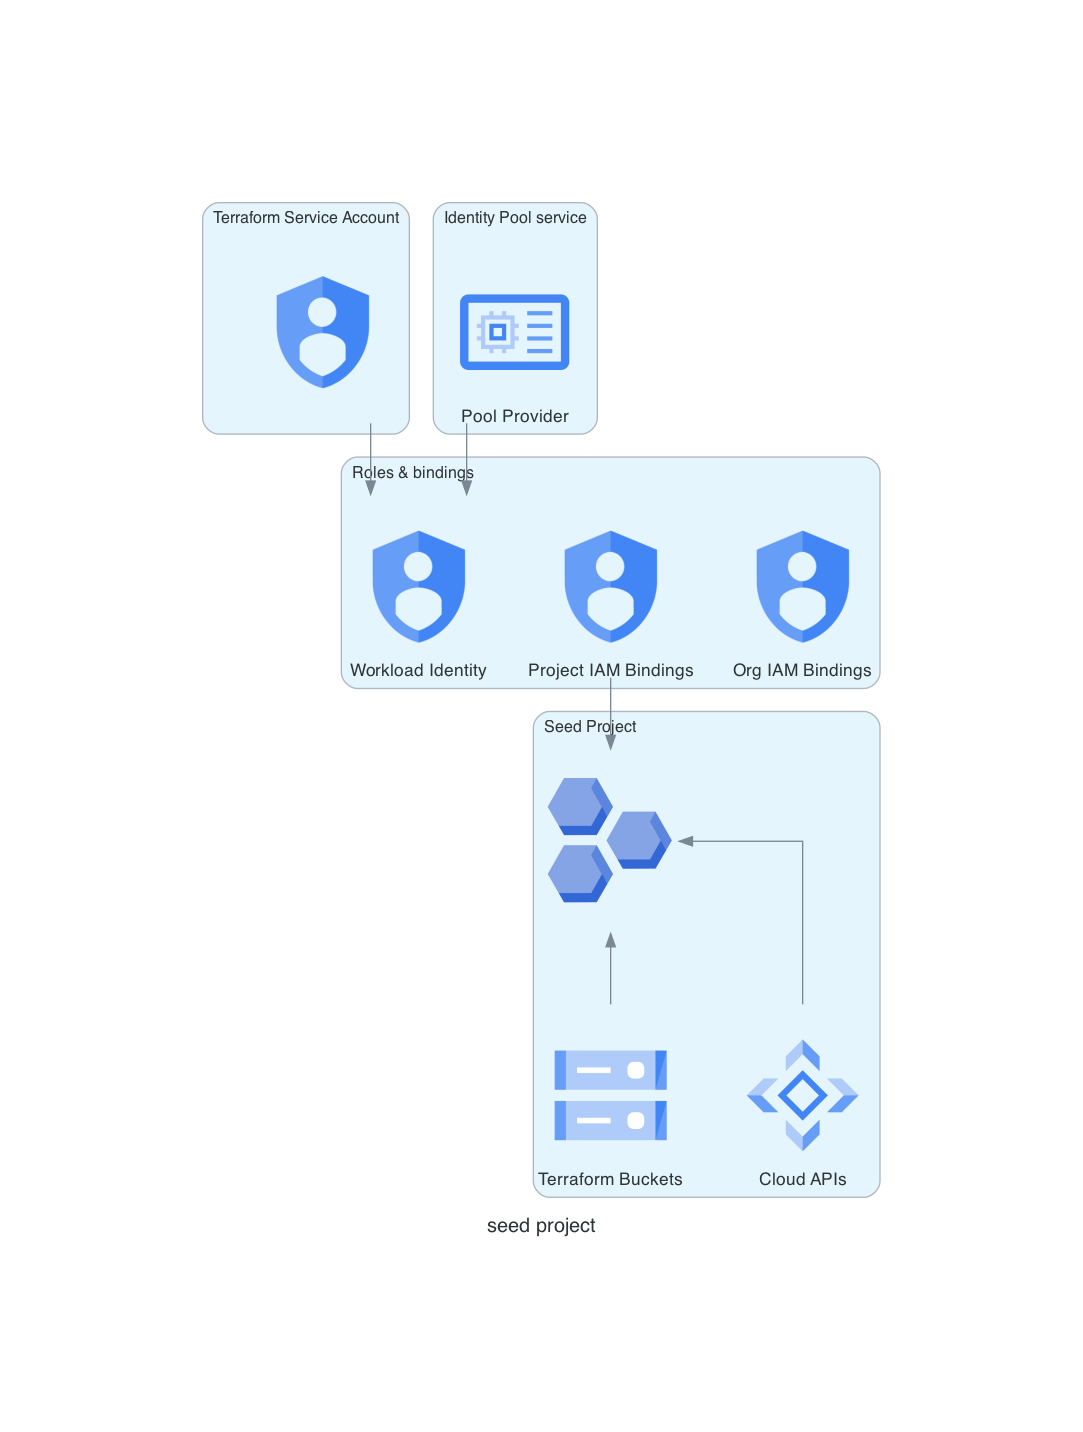
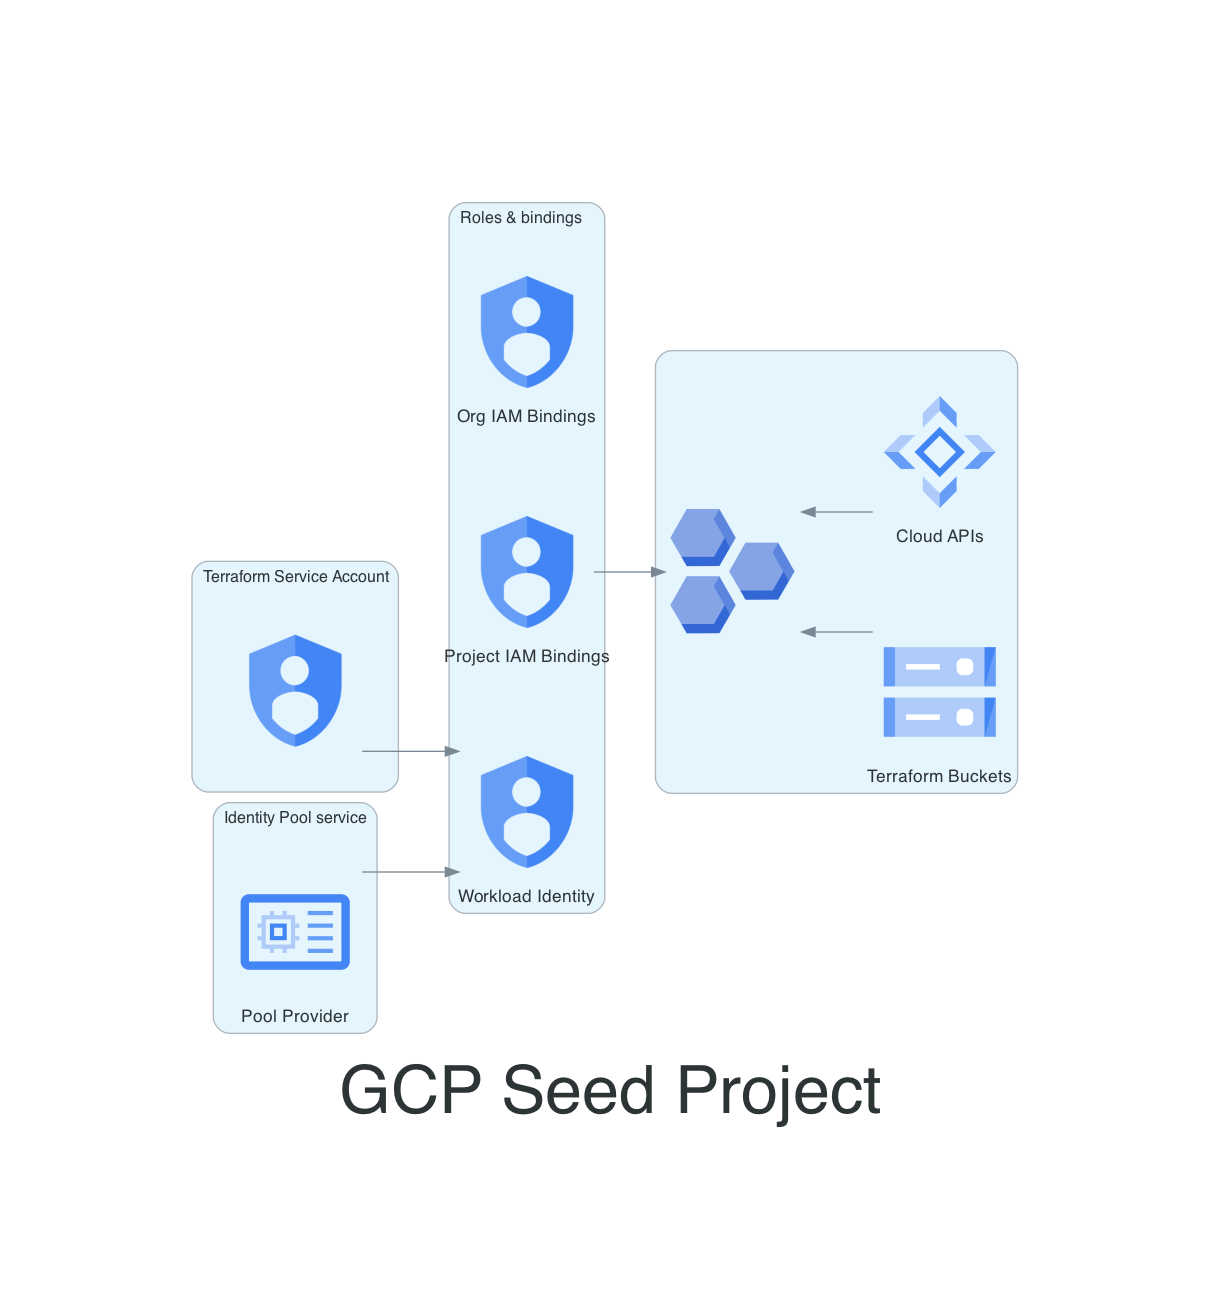
Doc improvements

Changed region(s): [[0.1524, 0.1247, 0.8532, 0.873]]

diff --git a/documentation/docs/scripts/slz-groups-iam.diagrams.py b/documentation/docs/scripts/slz-groups-iam.diagrams.py
@@ -1,9 +1,5 @@
-
-
-
-
 import os
-from diagrams import Cluster, Diagram
+from diagrams import Cluster, Diagram, Edge
 from diagrams.gcp.security import Iam
 from diagrams.custom import Custom
 
@@ -14,39 +10,39 @@ org_icon_path = "../img/icons/administration.png"
 os.chdir('../img')
 graph_attr = {
     "fontsize": "60",
-    "bgcolor": "transparent"
+    # "bgcolor": "transparent"
 }
 
 node_attr = {}
 edge_attr = {}
 
-with Diagram("Secure Landing Zone Groups Iam", filename="slz-groups-iam", show=False, direction="TB", 
+with Diagram("Secure Landing Zone Groups Roles", filename="slz-groups-iam", show=False, direction="LR", 
              outformat="png", graph_attr=graph_attr):
     with Cluster("Google Cloud Platform"):
         org = Custom("GCP Organization", org_icon_path)
     with Cluster("Security Admins"):
         ga = Custom("", groups_icon_path)
         sasa = Iam("Security Admin")
-        org >> ga
+        org >> Edge(color="Black", style="bold") >> ga
         ga >> [sasa]
     with Cluster("GCP Admins"):
         ga = Custom("", groups_icon_path)
         gaoa = Iam("Org Admin")
         gasa = Iam("Security Admin")
         gaba = Iam("Billing Admin")
-        org >> ga
+        org >> Edge(color="Black", style="bold") >> ga
         ga >> [gaoa,gasa,gaba]
     with Cluster("Network Admins"):
         ga = Custom("", groups_icon_path)
         nana = Iam("Network Admin")
         nava = Iam("VPC Access Admin")
-        org >> ga
+        org >> Edge(color="Black", style="bold") >> ga
         ga >> [nana,nava]
     with Cluster("Audit Admins"):
         ga = Custom("", groups_icon_path)
         aana = Iam("Security Reviewer")
         aava = Iam("Logging")
-        org >> ga
+        org >> Edge(color="Black", style="bold") >> ga
         ga >> [aana,aava]
     with Cluster("Project Admins"):
         ga = Custom("", groups_icon_path)
@@ -55,5 +51,5 @@ with Diagram("Secure Landing Zone Groups Iam", filename="slz-groups-iam", show=F
         past = Iam("Service Account Admin Token Creator")
         para = Iam("Artifact Registry Admin")
         parr = Iam("Artifact Registry Repo Admin")
-        org >> ga
+        org >> Edge(color="Black", style="bold") >> ga
         ga >> [pana,pasa,past,para,parr]

diff --git a/documentation/docs/scripts/slz-folders-core.diagrams.py b/documentation/docs/scripts/slz-folders-core.diagrams.py
@@ -8,8 +8,8 @@ org_icon_path = "../img/icons/administration.png"
 
 os.chdir('../img')
 graph_attr = {
-    "fontsize": "60",
-    "bgcolor": "transparent"
+    "fontsize": "20",
+    # "bgcolor": "transparent"
 }
 
 graph_attr2 = {
@@ -42,11 +42,15 @@ with Diagram("Secure Landing Zone Folder Hierarchy", filename="slz-folders-core"
         business_units = Custom("Bussiness Units", folder_icon_path)
         org >> Edge(color="Black", style="bold") >>  business_units
         
-    with Cluster("Bu. A", graph_attr=graph_attr2):
-        business_units_project = Custom("Bussiness Unit A", folder_icon_path)
-        dev = Custom("Project A", folder_icon_path)
-        prod = Custom("Project B", folder_icon_path)
+    with Cluster("Bussiness Unit A", graph_attr=graph_attr2):
+        business_units_project = Custom("Project A", folder_icon_path)
+        dev = Custom("dev", folder_icon_path)
+        prod = Custom("prod", folder_icon_path)
         business_units >> business_units_project
-        business_units_project >> dev
-        business_units_project >> prod 
+        business_units_project >> [dev,prod]
         
+        # business_units_project2 = Custom("Project B", folder_icon_path)
+        # dev2 = Custom("dev", folder_icon_path)
+        # prod2 = Custom("prod", folder_icon_path)
+        # business_units >> business_units_project2
+        # business_units_project2 >> [dev2,prod2]

diff --git a/documentation/docs/scripts/seed.diagrams.py b/documentation/docs/scripts/seed.diagrams.py
@@ -12,13 +12,13 @@ buckets_icon_path = "../img/icons/cloud_storage.png"
 os.chdir('../img')
 graph_attr = {
     "fontsize": "50",
-    "bgcolor": "transparent",
+    # "bgcolor": "transparent",
 }
 
 node_attr = {}
 edge_attr = {}
-with Diagram("seed project", show=False, filename="seed", outformat=["png",], direction="TB", graph_attr={"bgcolor": "transparent"}):
-    with Cluster("Seed Project"):
+with Diagram("GCP Seed Project", show=False, filename="seed", outformat=["png",], direction="LR", graph_attr=graph_attr):
+    with Cluster(""):
         prj = Custom("", proj_icon_path)
         buckets = Custom("Terraform Buckets", buckets_icon_path)
         apis = Custom("Cloud APIs", apis_icon_path)

diff --git a/documentation/docs/scripts/slz-groups.diagrams.py b/documentation/docs/scripts/slz-groups.diagrams.py
@@ -9,7 +9,7 @@ org_icon_path = "../img/icons/administration.png"
 os.chdir('../img')
 graph_attr = {
     "fontsize": "60",
-    "bgcolor": "transparent"
+    # "bgcolor": "transparent"
 }
 
 node_attr = {}

diff --git a/documentation/docs/slz-folders-core.md b/documentation/docs/slz-folders-core.md
@@ -11,8 +11,8 @@ The design emphasizes security by:
 
 - **Isolating Responsibilities**: By segregating resources into dedicated folders, you minimize the risk of unintended access or modifications.
 - **Scalable Organization**: This structure allows for expandable management and the easy addition of more departments, projects, or environmental divisions.
-- **Hierarchical Access Control**: Implementing IAM policies at different folder levels provides fine-grained control, supporting the principle of least privilege.
-- **Auditability**: The Logging and Monitoring folder can be configured to centralize logs, improving visibility and compliance.
+- **Hierarchical Access Control**: Implementing IAM policies at different folder levels provides fine-grained control, supporting the principle of least privilege. Also, when the permissions are attached to the folder and not the projects them selves the unerlying projects can be created, recreated destroyed, and the owners of the folder will still maintain the same privileges through inheritance.
+- **Auditability**: Audit logs are enabled, improving visibility and compliance.
 
 ---
 !!! info
@@ -22,14 +22,16 @@ The design emphasizes security by:
     1. diagram: documentation/docs/scripts/slz-folders-core.diagrams.py
     2. code: terraform/slz-folders-core.tf > documentation/docs/code/slz-folders-core.code
     
-# SLZ Folder hierarchy
+## SLZ Folder hierarchy
 
 !!! example "SLZ Folder hierarchy"
     ![slz](./img/slz-folders-core.png)
 
     [view here to view image full size](./img/slz-folders-core.png)
 ---
-the Grayed out area is not part of the SLZ, shown for refence. that section is explained in Bussines Units section
+!!! note "Bussines Units"
+    The Grayed out area in the image is not part of the SLZ core, it's shown here for refence. That section is explained in the folders page, for the Bussines Units section.
+
 ---
 ## Code
 

diff --git a/documentation/docs/slz-groups.md b/documentation/docs/slz-groups.md
@@ -6,8 +6,7 @@ These group configurations form an essential part of the Secure Landing Zone, en
 This part of the SLZ implementation defines different groups within your GCP organization. By adhering to the principle of least privilege, we ensure that users and services have the minimum levels of access required to perform their duties.
 
 !!! danger    
-          In order to mantain this implementation as an effective and secure landing zone on GCP, you should consider the principle of least privilege,
-          where you should grant only the necessary access to users, groups and services to perform their tasks.
+          In order to mantain this implementation as an effective and secure landing zone on GCP, Don't create aditional SLZ core Groups, this here should be enought to manage the ORG. For additional controls consider the Project level Groups. see bu-groups.
           
 
 ### Groups Overview
